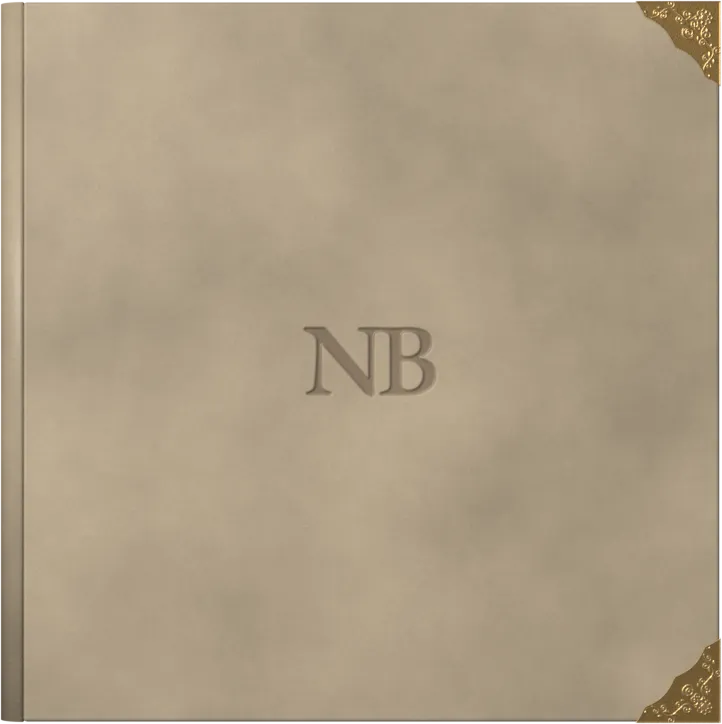
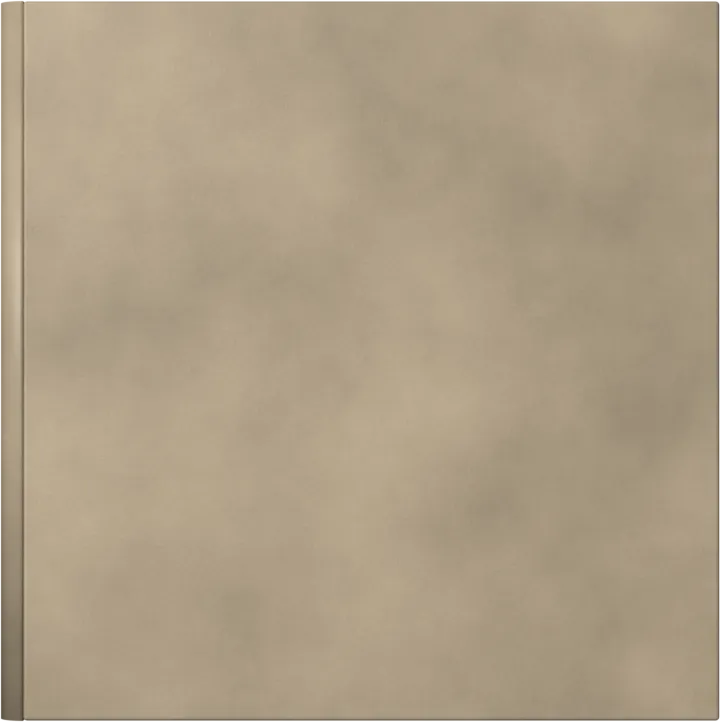
Render the two outer books plain
Drops the NB monogram and brass corners from the flanking books, so only the
middle album carries the branding and reads as the subject rather than one of
three identical copies.

Done by swapping the front cover to the monogram-free "Leather" material and
hiding Corner_TR/Corner_BR for those two stills; the album itself is unchanged.

Changed region(s): [[0.0, 0.0, 1.0, 1.0], [0.4278, 0.4266, 0.6111, 0.5485]]

diff --git a/CLAUDE.md b/CLAUDE.md
@@ -25,7 +25,9 @@ Owner is not a developer: explain changes in plain language and keep the site de
 The landing view is three square albums in a row behind a large `narrated` wordmark, with
 `by nb` in script to its right. The middle album is the animated one, drawn on a full-bleed
 canvas; the outer two are static WebPs (`assets/img/book-left.webp`, `book-right.webp`),
-recoloured copies of the same model in cream and terracotta.
+recoloured copies of the same model in cream and terracotta, rendered plain: the front cover
+is swapped to the monogram-free `Leather` material and `Corner_TR`/`Corner_BR` are hidden, so
+only the middle album carries the NB emboss and brass corners.
 
 Scrolling drives `--nb-p` (0-1) on the hero, and everything keys off it:
 - 0 to 0.05: the outer two books slide outward and fade, clearing before the cover starts
